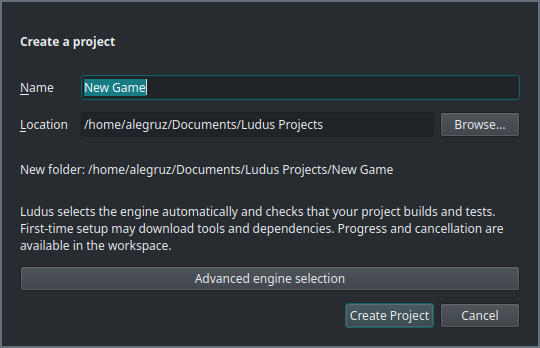
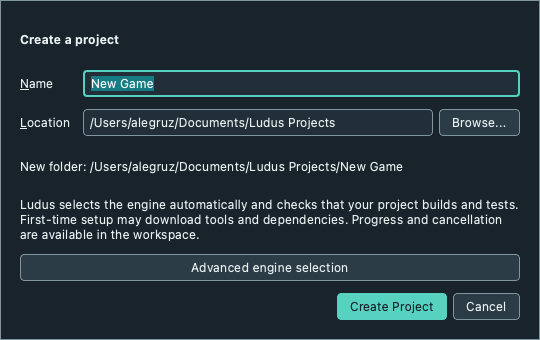
Apply Ludus Block visual roles to editor workspaces

Changed region(s): [[0.0, 0.0, 1.0, 1.0]]

diff --git a/apps/editor/src/workspace_style.cpp b/apps/editor/src/workspace_style.cpp
@@ -1,25 +1,127 @@
 #include "internal/workspace_style.h"
 
+#include <QApplication>
 #include <QColor>
+#include <QEvent>
+#include <QObject>
 #include <QPalette>
 #include <QString>
 #include <QWidget>
 
 namespace ludus::editor
 {
-void ApplyWorkspaceBoundaries(QWidget* widget)
+namespace
+{
+void UpdateWorkspaceStyle(QWidget* widget)
 {
     // Thanks to David Lightbown, Designing the User Experience of Game
     // Development Tools (CRC Press, 2015), ch. 5, pp. 80-86: expose hierarchy
-    // and preserve familiar controls. This adds boundaries, not a widget skin.
-    // See docs/architecture/editor-design-review.md and
+    // and preserve familiar controls. Brand roles remain confined to content;
+    // native menus and window decoration retain their platform conventions.
+    // See docs/architecture/editor-art-direction.md and
     // https://www.uxofgametools.com/ (2015 edition consulted).
-    const auto border = widget->palette().color(QPalette::Window).lightness() < 128 ? QStringLiteral("#65717d")
-                                                                                    : QStringLiteral("#7b8794");
-    widget->setStyleSheet(QStringLiteral("QDialog { border: 2px solid %1; } "
-                                         "QDockWidget::title { border: 1px solid %1; padding: 6px; } "
-                                         "QTabWidget::pane { border: 1px solid %1; } "
-                                         "QMainWindow::separator { background: %1; width: 4px; height: 4px; }")
-                              .arg(border));
+    const bool dark = QApplication::palette().color(QPalette::Window).lightness() < 128;
+    const QColor workspace(dark ? "#18232c" : "#edf3f2");
+    const QColor panel(dark ? "#222f39" : "#ffffff");
+    const QColor raised(dark ? "#2c3c47" : "#e1ece9");
+    const QColor text(dark ? "#e9f2f1" : "#18232c");
+    const QColor secondary(dark ? "#b5c5c9" : "#4c6267");
+    const QColor border(dark ? "#80969e" : "#71878b");
+    const QColor accent(dark ? "#57d2c1" : "#14786f");
+    const QColor accentText(dark ? "#18232c" : "#ffffff");
+    const QColor selected(dark ? "#294b4b" : "#d5eee8");
+    auto palette = QApplication::palette();
+    palette.setColor(QPalette::Window, workspace);
+    palette.setColor(QPalette::Base, panel);
+    palette.setColor(QPalette::AlternateBase, raised);
+    palette.setColor(QPalette::Button, raised);
+    palette.setColor(QPalette::WindowText, text);
+    palette.setColor(QPalette::Text, text);
+    palette.setColor(QPalette::ButtonText, text);
+    palette.setColor(QPalette::PlaceholderText, secondary);
+    palette.setColor(QPalette::Mid, border);
+    palette.setColor(QPalette::Highlight, selected);
+    palette.setColor(QPalette::HighlightedText, text);
+    palette.setColor(QPalette::Link, accent);
+    for (const auto role : {QPalette::WindowText, QPalette::Text, QPalette::ButtonText})
+    {
+        palette.setColor(QPalette::Disabled, role, secondary);
+    }
+    auto style =
+        QStringLiteral(
+            "QLabel, QCheckBox, QRadioButton, QGroupBox, QToolButton, QTabBar, QStatusBar, QDockWidget { color: "
+            "palette(text); } QCheckBox:disabled, QRadioButton:disabled, QToolButton:disabled { color: "
+            "palette(placeholder-text); } "
+            "QMainWindow, QDialog, QWidget#projectWelcome { background: palette(window); } "
+            "QDialog { border: 1px solid palette(mid); } "
+            "QDockWidget::title { background: palette(button); padding: 6px; border-bottom: 1px solid palette(mid); } "
+            "QTabWidget::pane { border: 1px solid palette(mid); background: palette(base); } "
+            "QTabBar::tab { background: palette(window); padding: 7px 12px; border-bottom: 2px solid transparent; } "
+            "QTabBar::tab:selected { background: palette(base); border-bottom-color: %1; } "
+            "QTabBar::tab:hover { background: palette(button); } "
+            "QMainWindow::separator { background: palette(mid); width: 4px; height: 4px; } "
+            "QToolBar { spacing: 4px; padding: 4px; border-bottom: 1px solid palette(mid); } "
+            "QToolButton { padding: 4px; border-radius: 4px; } "
+            "QToolButton:hover, QToolButton:checked { background: palette(button); } "
+            "QPushButton { background: palette(button); color: palette(button-text); border: 1px solid palette(mid); "
+            "border-radius: 4px; padding: 5px 12px; } "
+            "QPushButton:hover:enabled { border-color: %1; } "
+            "QPushButton:pressed, QPushButton:checked { background: palette(highlight); } "
+            "QPushButton[visualRole=primary]:enabled, QPushButton:default:enabled { background: %1; color: %2; "
+            "border-color: %1; } "
+            "QPushButton:disabled { color: palette(placeholder-text); background: palette(window); } "
+            "QLineEdit, QAbstractSpinBox, QComboBox { background: palette(base); color: palette(text); "
+            "border: 1px solid palette(mid); border-radius: 4px; padding: 4px; } "
+            "QComboBox { padding-right: 20px; } "
+            "QAbstractItemView, QPlainTextEdit, QTextEdit { background: palette(base); border: 1px solid palette(mid); "
+            "border-radius: 4px; selection-background-color: palette(highlight); selection-color: "
+            "palette(highlighted-text); } "
+            "QListWidget#recentProjectsList::item { padding: 8px; } "
+            "QAbstractItemView::item:selected { background: palette(highlight); color: palette(highlighted-text); } "
+            "QHeaderView::section { background: palette(button); color: palette(text); padding: 4px; "
+            "border: none; border-bottom: 1px solid palette(mid); } "
+            "QPushButton:focus, QLineEdit:focus, QAbstractSpinBox:focus, QComboBox:focus, QAbstractItemView:focus, "
+            "QPlainTextEdit:focus, QTextEdit:focus { border: 2px solid %1; } "
+            "QToolButton:focus, QTabBar::tab:focus { outline: 2px solid %1; } "
+            "QLabel[visualRole=secondary] { color: palette(placeholder-text); } "
+            "QStatusBar { border-top: 1px solid palette(mid); }")
+            .arg(accent.name(), accentText.name());
+    style.replace(QStringLiteral("palette(window)"), workspace.name());
+    style.replace(QStringLiteral("palette(base)"), panel.name());
+    style.replace(QStringLiteral("palette(button)"), raised.name());
+    style.replace(QStringLiteral("palette(mid)"), border.name());
+    style.replace(QStringLiteral("palette(button-text)"), text.name());
+    style.replace(QStringLiteral("palette(text)"), text.name());
+    style.replace(QStringLiteral("palette(highlight)"), selected.name());
+    style.replace(QStringLiteral("palette(highlighted-text)"), text.name());
+    style.replace(QStringLiteral("palette(placeholder-text)"), secondary.name());
+    widget->setStyleSheet(style);
+    widget->setPalette(palette);
+}
+
+class WorkspaceStyle final : public QObject
+{
+public:
+    explicit WorkspaceStyle(QWidget* widget) : QObject(widget), Widget_(widget) {}
+
+protected:
+    bool eventFilter(QObject* watched, QEvent* event) override
+    {
+        if (watched == qApp && event->type() == QEvent::ApplicationPaletteChange)
+        {
+            UpdateWorkspaceStyle(Widget_);
+        }
+        return QObject::eventFilter(watched, event);
+    }
+
+private:
+    QWidget* Widget_;
+};
+} // namespace
+
+void ApplyWorkspaceStyle(QWidget* widget)
+{
+    UpdateWorkspaceStyle(widget);
+    qApp->installEventFilter(new WorkspaceStyle(widget));
 }
 } // namespace ludus::editor

diff --git a/apps/editor/src/main_window_layout.cpp b/apps/editor/src/main_window_layout.cpp
@@ -39,6 +39,7 @@
 #include <QTimer>
 #include <QToolBar>
 #include <QVBoxLayout>
+#include <QVariant>
 #include <QWidget>
 
 namespace ludus::editor
@@ -208,23 +209,35 @@ void MainWindow::BuildUi()
     brand->setPixmap(QIcon(QStringLiteral(":/ludus/ludus-mark.png")).pixmap(48, 48));
     auto font = title->font();
     font.setBold(true);
+    font.setPointSize(font.pointSize() + 6);
     title->setFont(font);
     auto* intro = new QLabel(QStringLiteral("Create a project or continue where you left off."), recentPanel);
     intro->setWordWrap(true);
+    intro->setProperty("visualRole", QStringLiteral("secondary"));
     WelcomeNewButton_ = new QPushButton(QStringLiteral("New Project..."), recentPanel);
     WelcomeNewButton_->setObjectName(QStringLiteral("welcomeNewProject"));
+    WelcomeNewButton_->setProperty("visualRole", QStringLiteral("primary"));
     auto* brandHeading = new QHBoxLayout;
     brandHeading->addWidget(brand);
     brandHeading->addWidget(title);
     brandHeading->addStretch();
     recentLayout->addLayout(brandHeading);
     recentLayout->addWidget(intro);
-    recentLayout->addWidget(WelcomeNewButton_);
+    auto* welcomeActions = new QHBoxLayout;
+    welcomeActions->addWidget(WelcomeNewButton_);
+    welcomeActions->addWidget(BrowseProjectButton_);
+    welcomeActions->addStretch();
+    recentLayout->addLayout(welcomeActions);
+    recentLayout->addSpacing(12);
     recentLayout->addWidget(new QLabel(QStringLiteral("Recent projects"), recentPanel));
     recentLayout->addWidget(RecentEmptyLabel_);
-    recentLayout->addWidget(RecentList_);
-    recentLayout->addWidget(RecentOpenButton_);
-    recentLayout->addWidget(BrowseProjectButton_);
+    RecentEmptyLabel_->setAlignment(Qt::AlignTop);
+    recentLayout->addWidget(RecentList_, 1);
+    recentLayout->addStretch();
+    auto* recentActions = new QHBoxLayout;
+    recentActions->addWidget(RecentOpenButton_);
+    recentActions->addStretch();
+    recentLayout->addLayout(recentActions);
     WorkTabs_->insertTab(0, Welcome_, QStringLiteral("Welcome"));
     WorkTabs_->setCurrentWidget(Welcome_);
     connect(RecentList_, &QListWidget::itemDoubleClicked, this, [this](QListWidgetItem* item) {

diff --git a/apps/editor/tests/project_lifecycle_tests.cpp b/apps/editor/tests/project_lifecycle_tests.cpp
@@ -2,6 +2,7 @@
 #include "internal/controller.h"
 #include "internal/main_window.h"
 #include "internal/project_creation_dialog.h"
+#include "internal/workspace_style.h"
 
 #include <catch2/catch_test_macros.hpp>
 
@@ -12,6 +13,7 @@
 #include <QDir>
 #include <QFile>
 #include <QKeySequence>
+#include <QMainWindow>
 #include <QMessageBox>
 #include <QPalette>
 #include <QPixmap>
@@ -197,4 +199,30 @@ TEST_CASE("Project creation dark and light captures support visual review", "[ed
         REQUIRE(dialog.grab().save(capture + (dark ? QStringLiteral("-dark.png") : QStringLiteral("-light.png"))));
     }
     QApplication::setPalette(original);
+}
+
+TEST_CASE("Workspace appearance follows application palette changes", "[editor][appearance]")
+{
+    const auto original = QApplication::palette();
+    QMainWindow workspace;
+    ApplyWorkspaceStyle(&workspace);
+    workspace.show();
+    // ApplicationPaletteChange is dispatched while the application event loop runs.
+    QTimer::singleShot(0, &workspace, [&]() {
+        auto dark = original;
+        dark.setColor(QPalette::Window, QColor(QStringLiteral("#202428")));
+        QApplication::setPalette(dark);
+        QApplication::processEvents();
+        CHECK(workspace.palette().color(QPalette::Window).lightness() < 128);
+        CHECK(workspace.palette().color(QPalette::Text).lightness() > 128);
+        auto light = original;
+        light.setColor(QPalette::Window, QColor(QStringLiteral("#ffffff")));
+        QApplication::setPalette(light);
+        QApplication::processEvents();
+        CHECK(workspace.palette().color(QPalette::Window).lightness() > 128);
+        CHECK(workspace.palette().color(QPalette::Text).lightness() < 128);
+        QApplication::setPalette(original);
+        QApplication::quit();
+    });
+    QApplication::exec();
 }

diff --git a/apps/editor/src/project_creation_dialog.cpp b/apps/editor/src/project_creation_dialog.cpp
@@ -12,6 +12,7 @@
 #include <QPushButton>
 #include <QStandardPaths>
 #include <QVBoxLayout>
+#include <QVariant>
 
 namespace ludus::editor
 {
@@ -26,7 +27,7 @@ ProjectCreationDialog::ProjectCreationDialog(QWidget* parent) : QDialog(parent)
     setObjectName(QStringLiteral("newProjectDialog"));
     setWindowTitle(QStringLiteral("New Ludus Project"));
     setMinimumWidth(540);
-    ApplyWorkspaceBoundaries(this);
+    ApplyWorkspaceStyle(this);
     auto* layout = new QVBoxLayout(this);
     layout->setContentsMargins(20, 20, 20, 20);
     layout->setSpacing(12);
@@ -113,6 +114,7 @@ ProjectCreationDialog::ProjectCreationDialog(QWidget* parent) : QDialog(parent)
     auto* buttons = new QDialogButtonBox(QDialogButtonBox::Ok | QDialogButtonBox::Cancel, this);
     Create_ = buttons->button(QDialogButtonBox::Ok);
     Create_->setText(QStringLiteral("Create Project"));
+    Create_->setProperty("visualRole", QStringLiteral("primary"));
     layout->addWidget(buttons);
     connect(buttons, &QDialogButtonBox::accepted, this, [this]() {
         Update();

diff --git a/apps/editor/src/internal/workspace_style.h b/apps/editor/src/internal/workspace_style.h
@@ -8,6 +8,6 @@ QT_END_NAMESPACE
 
 namespace ludus::editor
 {
-// Private presentation helper; preserves native controls, fonts and palettes.
-void ApplyWorkspaceBoundaries(QWidget* widget);
+// Private presentation helper; shared light/dark brand roles; retains platform fonts and decoration.
+void ApplyWorkspaceStyle(QWidget* widget);
 } // namespace ludus::editor

diff --git a/apps/editor/src/main_window.cpp b/apps/editor/src/main_window.cpp
@@ -55,7 +55,7 @@ MainWindow::MainWindow(EditorController* controller, QWidget* parent, const QStr
 {
     setWindowTitle(QStringLiteral("Ludus Editor"));
     setWindowIcon(QIcon(QStringLiteral(":/ludus/ludus-icon.png")));
-    ApplyWorkspaceBoundaries(this);
+    ApplyWorkspaceStyle(this);
     BuildUi();
     BuildMenus();
     InitializeWorkspace();

diff --git a/docs/architecture/editor-art-direction.md b/docs/architecture/editor-art-direction.md
@@ -9,7 +9,8 @@ Ludus.
 
 The artwork is wired into the editor's Qt resources, Welcome and recent-project
 views, macOS app bundle, wiki branding and browser editor package. The production
-theme remains a design target. The [multiplatform GUI systems](editor-gui-systems.md) and
+theme now applies the light/dark roles below to the Qt workspace and project
+creation dialog. The [multiplatform GUI systems](editor-gui-systems.md) and
 [interaction design](editor-interaction-design.md) continue to own the compact
 contextual row, useful central documents and optional secondary panels. Native
 OS decoration/menu conventions stay native; the browser gets no simulated OS
@@ -110,7 +111,9 @@ The captured concept views are [Quiet Studio](../development/images/editor-direc
 [Open Workshop](../development/images/editor-direction-workshop.jpg). Actual Qt
 creation captures: [dark](../development/images/editor-project-creation-dark.png)
 and [light](../development/images/editor-project-creation-light.png); these show
-the native usability fix, not a finished production theme.
+the implemented Ludus Block theme. Workspace captures are available in
+[dark](../development/images/editor-block-workspace-dark.png) and
+[light](../development/images/editor-block-workspace-light.png) appearance.
 
 ## Common interaction rules
 
@@ -134,10 +137,12 @@ the native usability fix, not a finished production theme.
 
 ## Visual system target
 
-The HTML study has isolated surface/text/border/accent/radius tokens. The native
-fix currently preserves platform fonts, palette, controls and window decoration,
-adding only explicit palette-appropriate panel/dialog/splitter outlines. It uses
-logical pixels and layout managers, with no custom title-bar hit testing.
+The HTML study has isolated surface/text/border/accent/radius tokens. The Qt
+component layer now applies these roles to panel surfaces, tabs, fields,
+buttons, lists, table headers and focus borders. Welcome groups its primary
+creation/open actions above the recent-project list. Application palette changes
+refresh the light/dark appearance; platform fonts, menus and window decoration
+remain native. It uses logical pixels and layout managers, with no custom title-bar hit testing.
 
 Use cool charcoal surfaces, mint actions, readable neutral text and modest
 rounding. Translate the logo's construction into clear panel grouping and
